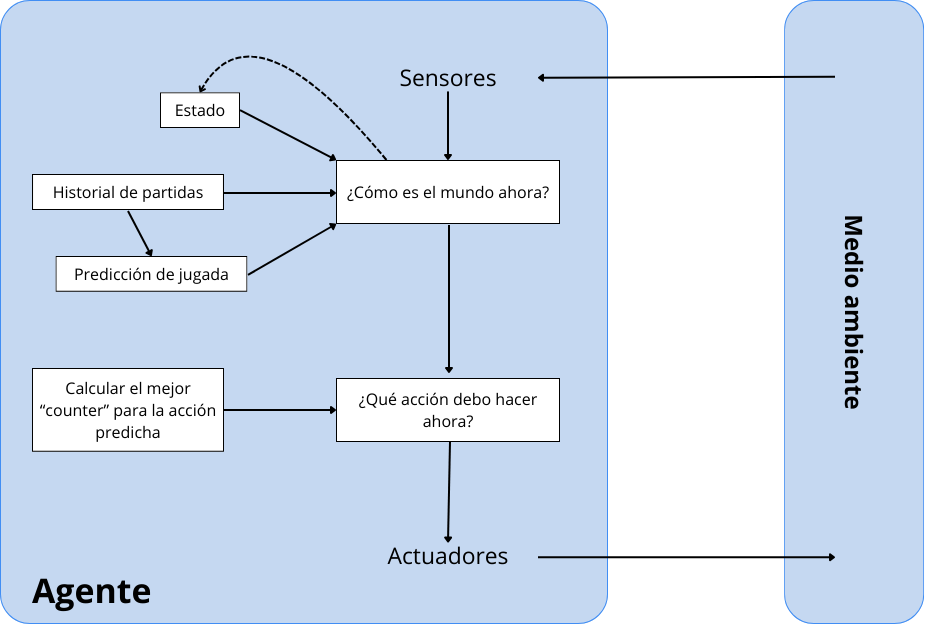
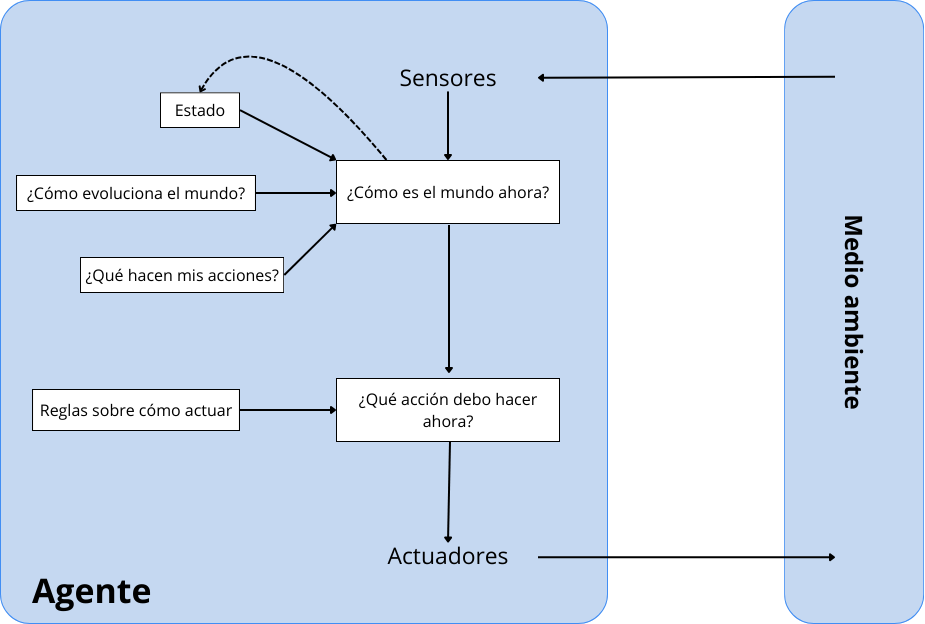
docs(README): Completar documentacón del proyecto

diff --git a/README.md b/README.md
@@ -22,7 +22,44 @@
 ### Tipo de Agente Seleccionado:
 **Agente reactivo basado en modelos.**
 
-### Estructura del Agente:
+### Estructura del Agente
 Es un agente reactivo basado en modelos ya que utiliza memoria para construir un modelo del comportamiento del oponente y toma decisiones inmediatas basadas en este modelo, sin planificación a largo plazo ni optimización compleja de utilidad.
 
 ![Agente reactivo basado en modelos](doc/MiguelBG-Agente-reactivo-basado-en-modelos.png)
+
+### Componentes de la Estructura:
+1. **Percepción:** La entrada del agente incluye la acción del jugador humano (o contrincante).
+2. **Modelo interno:** El agente mantiene un historial de juegos previos para inferir patrones del jugador humano.
+3. **Función de decisión:** El agente calcula la mejor acción basada en el historial y en la estrategia de maximización de rendimiento.
+4. **Salida:** La acción seleccionada por el agente para maximizar el rendimiento.
+
+### Para seguir esta estructura, he desarrollado un Agente que sigue el siguiente flujo:
+![Flujo Agente reactivo basado en modelos](doc/MiguelBG-Flujo-Agente-reactivo-basado-en-modelos.png)
+
+
+### Funcionamiento del Agente
+1. Inicializa un historial de jugadas propias, del adversario y de los resultados (`__init__()`).
+2. Intenta predecir la siguiente jugada del adversario en base al historial guardado usando ponderaciones (`predict_player_action()`).
+3. Busca la mejor jugada para contrarrestar la predicción que ha hecho. En el caso de que detecte 2 jugadas seguidas iguales con resultado negativo para el agente por parte del adversario, para evitar una predicción del funcionamiento del algoritmo, y siguiendo el modelo de Márkov, el agente cogerá esa jugada y jugará un counter para la misma (`get_best_counter_action()`).
+4. Actualiza los historiales de las jugadas (`update_history()`).
+
+
+### Instalación y ejecución del proyecto
+Para la instalación y ejecución del proyecto, debemos seguir los siguientes pasos:
+1. **Clonar el repositorio**  
+Abre una terminal y ejecuta el siguiente comando para clonar el repositorio en tu máquina local:
+```bash
+git clone https://github.com/MiBasDev/RPS.git
+```
+2. **Navega al directorio del proyecto** 
+```bash
+cd RPS/src
+```
+3. **Crear un entorno virtual (opcional pero recomendado)** 
+```bash
+python -m venv env
+```
+4. **Ejecutar el proyecto** 
+```bash
+python app.py
+```
